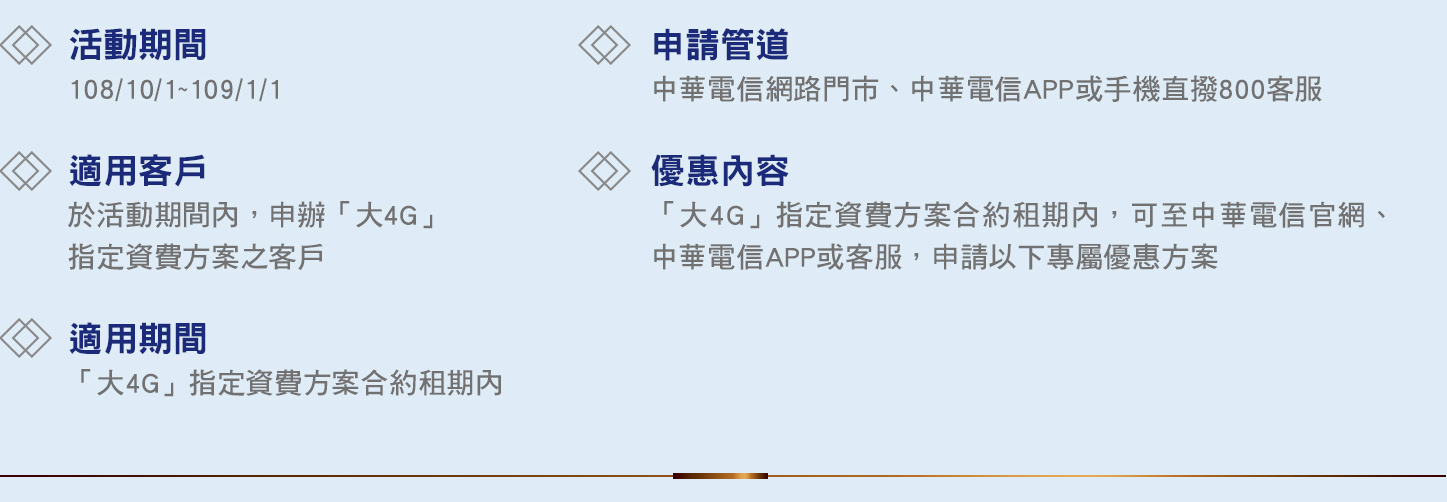
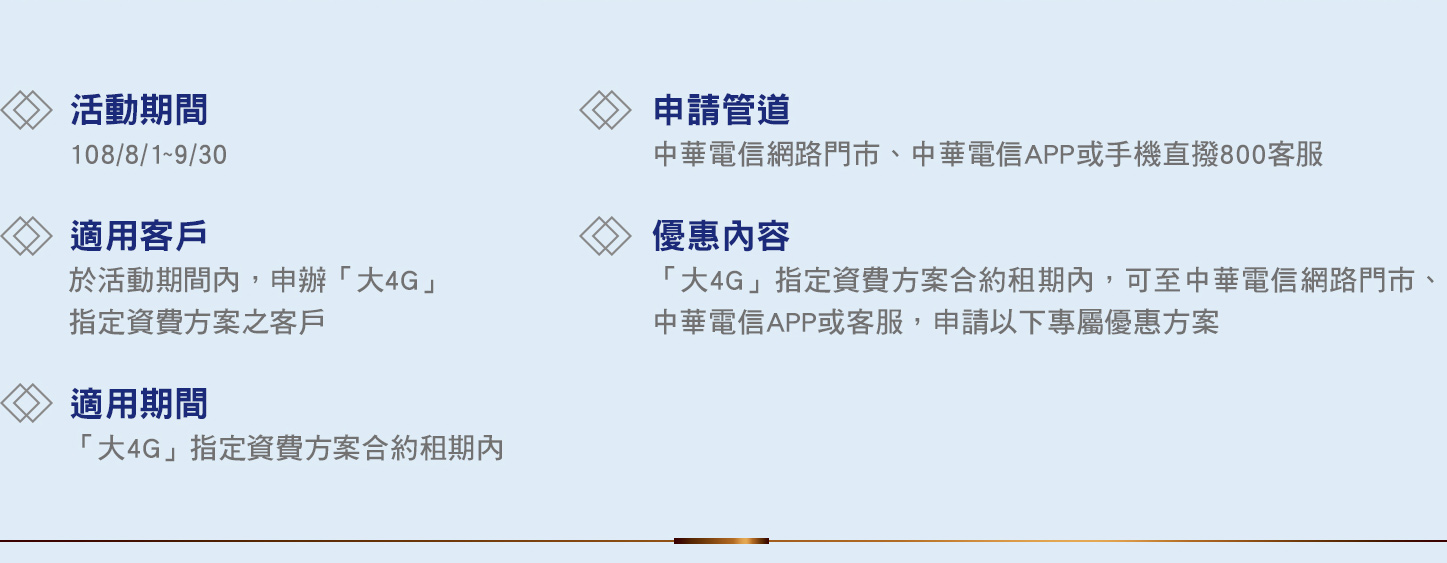
國際漫遊
修改選項
改大4g漫遊方案
改夏日方案內容

diff --git a/demo/international/roamingbig4g/index.html b/demo/international/roamingbig4g/index.html
@@ -280,52 +280,52 @@ height="0" width="0" style="display:none;visibility:hidden"></iframe></noscript>
     	<div class="reminder open04">
 			<ol>
 				<li>本活動期間內(108/10/1-109/1/1)申辦大4G方案月繳999元以上且租期為24個月以上者，於合約租期內可透過中華電信網路門市、APP或手機直撥800客服，申請「大4G日租吃到飽」及「大4G定量型」漫遊上網方案。</li>
-<li>「大4G日租吃到飽」漫遊上網方案依各區域之日租費用計費，上網無限瀏覽，生效期間每日(24小時)只要有產生上網用量，即收取當日日租費用，無法退費，完全沒有使用則不計費。可依需求一次申請多天，方案自生效時間起算至天數ｘ24小時後自動終止(以台灣時間計算，例如：客戶於4月1日15:00:00申請立即生效「大4G日租168吃到飽」方案ｘ5天，方案將在4月6日14:59:59終止)。方案生效期間於各方案適用國家特定優惠網之用量合併累計。
-<p>月繳999/1,199元方案客戶優惠價：</p>
-<ul>
-<li>大4G日租178吃到飽：適用中港澳、日韓、東南亞、美加、紐澳等熱門旅遊國家，178元/天</li>
-<li>大4G日租268吃到飽：適用中東、南亞、大洋洲特定國家，268元/天</li>
-<li>大4G日租468吃到飽：適用歐洲、非洲特定國家，468元/天</li>
-</ul>
-<p>月繳1,399/1,599/1,799/2,699元方案客戶優惠價：</p>
-<ul>
-<li>大4G日租168吃到飽：適用中港澳、日韓、東南亞、美加、紐澳等熱門旅遊國家，168元/天</li>
-<li>大4G日租258吃到飽：適用中東、南亞、大洋洲特定國家，258元/天</li>
-<li>大4G日租458吃到飽：適用歐洲、非洲特定國家，458元/天</li>
-</ul>
-</li>
-<li>為方便使用，吃到飽另提供2~100個月租期之「大旅行家」方案，生效期間出國至上述「大4G日租吃到飽」方案適用國家時，每日(台灣時間00:00~23:59)自動以「大4G日租吃到飽」漫遊上網方案之各區域吃到飽優惠價計費。本方案僅限透過手機直撥800申請。</li>
-<li>「大4G定量型」漫遊上網方案依適用國家，以固定費用提供固定內含漫遊上網量，用完則降速至128kbps，可繼續上網，不額外收費。方案生效期間贈送漫遊語音發話20分鐘免費，含撥打至當地、回台灣、至第三國等，以「分」為計算單位，不足1分鐘以1分鐘計算，贈送量用完後，以漫遊原價計價。方案啟動後即收取全額費用，無法退費，方案終止後，未用完之上網量及贈送量將歸零不得遞延。方案生效期間於各方案適用國家特定優惠網之用量合併累計。
-<p>月繳999/1,199元方案客戶優惠價：</p>
-<ul>
-<li>中港澳、日本、韓國、東南亞：方案費用558元，內含上網量5GB，有效期間為「7天」(連續168小時)</li>
-<li>美加、澳大利亞：方案費用958元，內含上網量10GB，有效期間為「15天」(連續360小時) </li>
-<li>中東、南亞特定國家：方案費用658元，內含上網量5GB，有效期間為「7天」(連續168小時) </li>
-<li>歐洲、非洲特定國家(含轉機地)：方案費用958元，內含上網量3GB，有效期間為「15天」(連續360小時) </li>
-</ul>
-<p>月繳1,399/1,599/1,799/2,699元方案客戶優惠價：</p>
-<ul>
-<li>中港澳、日本、韓國、東南亞：方案費用499元，內含上網量5GB，有效期間為「7天」(連續168小時)</li>
-<li>美加、澳大利亞：方案費用899元，內含上網量10GB，有效期間為「15天」(連續360小時) </li>
-<li>中東、南亞特定國家：方案費用599元，內含上網量5GB，有效期間為「7天」(連續168小時) </li>
-<li>歐洲、非洲特定國家(含轉機地)：方案費用899元，內含上網量3GB，有效期間為「15天」(連續360小時) </li>
-</ul>
-</li>
-<li>上述專屬方案生效期間僅限網站公告之特定國家使用(含定量型方案之漫遊語音發話贈送量)，方案於收到開通簡訊後生效，生效後建議重開機以確保系統為您自動註冊優惠網路。方案生效期間至不適用國家、船舶及航空漫遊，系統會自動暫停您的漫遊上網服務，以避免產生高額漫遊費用；方案結束前，若您再次回到適用國家後，系統會自動恢復漫遊上網服務。若您在方案不適用國家仍有漫遊上網需求，請撥免費*122#、依簡訊指示回傳對應代碼(國外須付費)或洽客服專線(中華行動電話直撥+886-928-000-086免付費客服專線)申請開啟漫遊上網服務即可，用量將依漫遊上網原價計收。客戶至本方案適用國家，若未申請本方案，傳送一張大小約1MB (1024KB)的照片，以漫遊上網原價計費可達約40元，實際費用仍以帳單金額為準。(各國業者之詳細漫遊費率請參考中華電信網路門市公告資訊)</li>
-<li>上述專屬方案不包括船舶及航空漫遊。登船/機前，建議客戶手動關閉行動數據、漫遊上網及手機同步等功能；由於郵/遊輪停靠之鄰近地區仍有可能接收到船舶行動網路溢散之訊號，登陸期間若可能於郵/遊輪附近活動時，建議客戶手機仍維持關閉行動數據、漫遊上網及手機同步等功能之狀態，以避免誤連船舶漫遊之行動網路，而產生高額漫遊費用。(船舶及航空漫遊係指各郵/遊輪及飛機航線上提供之行動上網服務)</li>
-<li>漫遊優惠原價依108年4月官網公告為準，實際價格將因經營成本及其他相關因素之變動隨時調整，詳細價格請見中華電信網路門市。</li>
-<li>本公司依國外業者傳送之通信資料，透過簡訊或e-mail提供方案生效、方案結束、上網用量(僅適用定量型方案)等相關通知，僅供參考，傳送過程可能因國外業者系統狀況、客戶終端無簡訊收送功能或關機等因素，而發生延遲、無法送達或超過簡訊發送時限而傳送失敗等情形，於漫遊期間實際產生之用量及費用，仍以帳單為準。</li>
-<li>國際漫遊上網服務計價方式依據上傳與下載之資料傳輸量計收，為避免產生額外之漫遊上網費用，「出國上飛機前」、「於國外上網服務使用後」或於「國外使用WiFi時」，請關閉行動數據、漫遊上網及手機同步等功能。</li>
-<li>「4G」為有開放4G漫遊服務之優惠國家 ，網路僅限4G用戶漫遊，當國外業者因4G網路涵蓋不良時，用戶仍可使用於3G或2G網路。</li>
-<li>國際漫遊上網實際使用及傳輸速率會因國外業者提供之網路系統、涵蓋、上網地點之地形、氣候、建築物遮蔽情形及所使用之終端設備、使用人數、手機APP應用軟體等因素而有所差異，上網品質無法完全與國內相同；且因各國外漫遊網對個人熱點分享開放策略不同，可否使用須視客戶註冊之漫遊網而定。若在國外發生無法使用時，建議重新開機，以利系統為您自動註冊適用網路，或以中華行動電話直撥+886-928-000-086免付費客服專線。</li>
-<li>為避免高額漫遊費用產生，客戶同意於上述專屬方案生效期間，於方案特定優惠國家內使用時，將無法使用該國非優惠網漫遊功能，並於方案終止後由系統主動停止客戶漫遊上網功能，如仍有上網需求，建議再申請一次適用之方案。</li>
-<li>上述專屬方案為單次租用型服務，且方案生效期間不可與適用國家相同之其他漫遊上網方案效期重疊。客戶申請之方案成功生效後，無法申請退費或調改其他天數之方案，僅能以退租處理，即使於方案啟動成功當天退租，仍將依該方案計費方式收費。</li>
-<li>傳送或接收MMS所產生之數據傳輸費，除了以上述專屬方案費率計收外，仍需收取國內之MMS通信費。</li>
-<li>客戶APN設定為emome時，且使用emome付費加值服務如圖鈴下載、付費網頁等，需同時收取國際漫遊數據傳輸費及國內數據通信費。</li>
-<li>客戶所使用的終端若無法收受簡訊，可透過中華電信APP或客服專線修改為e-mail通知。</li>
-<li>上述專屬方案係透過中華門號註冊當地網路時使用，若您另有申請環球卡服務，請依您的使用需求，將門號切換至適用的模式，以避免產生非預期之漫遊話費。</li>
-<li>因經營成本及其他相關因素之變動，本公司保留修改或終止上述專屬方案費率之權利，詳細費率及活動內容以本公司網站公告為主。</li>
-<li>為避免產生鉅額漫遊費用，手機、終端設備或SIM卡在國外遺失或被竊時，應立即通知本公司客服中心(中華行動電話直撥+886-928-000-086免付費客服專線)辦理掛失，若您未主動通知客服辦理停話，您仍需支付相關漫遊費用。</li>
+				<li>「大4G日租吃到飽」漫遊上網方案依各區域之日租費用計費，上網無限瀏覽，生效期間每日(24小時)只要有產生上網用量，即收取當日日租費用，無法退費，完全沒有使用則不計費。可依需求一次申請多天，方案自生效時間起算至天數ｘ24小時後自動終止(以台灣時間計算，例如：客戶於4月1日15:00:00申請立即生效「大4G日租168吃到飽」方案ｘ5天，方案將在4月6日14:59:59終止)。方案生效期間於各方案適用國家特定優惠網之用量合併累計。
+					<p>月繳999/1,199元方案客戶優惠價：</p>
+					<ul>
+						<li>大4G日租178吃到飽：適用中港澳、日韓、東南亞、美加、紐澳等熱門旅遊國家，178元/天</li>
+						<li>大4G日租268吃到飽：適用中東、南亞、大洋洲特定國家，268元/天</li>
+						<li>大4G日租468吃到飽：適用歐洲、非洲特定國家，468元/天</li>
+					</ul>
+					<p>月繳1,399/1,599/1,799/2,699元方案客戶優惠價：</p>
+					<ul>
+						<li>大4G日租168吃到飽：適用中港澳、日韓、東南亞、美加、紐澳等熱門旅遊國家，168元/天</li>
+						<li>大4G日租258吃到飽：適用中東、南亞、大洋洲特定國家，258元/天</li>
+						<li>大4G日租458吃到飽：適用歐洲、非洲特定國家，458元/天</li>
+					</ul>
+				</li>
+				<li>為方便使用，吃到飽另提供2~100個月租期之「大旅行家」方案，生效期間出國至上述「大4G日租吃到飽」方案適用國家時，每日(台灣時間00:00~23:59)自動以「大4G日租吃到飽」漫遊上網方案之各區域吃到飽優惠價計費。本方案僅限透過手機直撥800申請。</li>
+				<li>「大4G定量型」漫遊上網方案依適用國家，以固定費用提供固定內含漫遊上網量，用完則降速至128kbps，可繼續上網，不額外收費。方案生效期間贈送漫遊語音發話20分鐘免費，含撥打至當地、回台灣、至第三國等，以「分」為計算單位，不足1分鐘以1分鐘計算，贈送量用完後，以漫遊原價計價。方案啟動後即收取全額費用，無法退費，方案終止後，未用完之上網量及贈送量將歸零不得遞延。方案生效期間於各方案適用國家特定優惠網之用量合併累計。
+					<p>月繳999/1,199元方案客戶優惠價：</p>
+					<ul>
+						<li>中港澳、日本、韓國、東南亞：方案費用558元，內含上網量5GB，有效期間為「7天」(連續168小時)</li>
+						<li>美加、澳大利亞：方案費用958元，內含上網量10GB，有效期間為「15天」(連續360小時) </li>
+						<li>中東、南亞特定國家：方案費用658元，內含上網量5GB，有效期間為「7天」(連續168小時) </li>
+						<li>歐洲、非洲特定國家(含轉機地)：方案費用958元，內含上網量3GB，有效期間為「15天」(連續360小時) </li>
+					</ul>
+					<p>月繳1,399/1,599/1,799/2,699元方案客戶優惠價：</p>
+					<ul>
+						<li>中港澳、日本、韓國、東南亞：方案費用499元，內含上網量5GB，有效期間為「7天」(連續168小時)</li>
+						<li>美加、澳大利亞：方案費用899元，內含上網量10GB，有效期間為「15天」(連續360小時) </li>
+						<li>中東、南亞特定國家：方案費用599元，內含上網量5GB，有效期間為「7天」(連續168小時) </li>
+						<li>歐洲、非洲特定國家(含轉機地)：方案費用899元，內含上網量3GB，有效期間為「15天」(連續360小時) </li>
+					</ul>
+				</li>
+				<li>上述專屬方案生效期間僅限網站公告之特定國家使用(含定量型方案之漫遊語音發話贈送量)，方案於收到開通簡訊後生效，生效後建議重開機以確保系統為您自動註冊優惠網路。方案生效期間至不適用國家、船舶及航空漫遊，系統會自動暫停您的漫遊上網服務，以避免產生高額漫遊費用；方案結束前，若您再次回到適用國家後，系統會自動恢復漫遊上網服務。若您在方案不適用國家仍有漫遊上網需求，請撥免費*122#、依簡訊指示回傳對應代碼(國外須付費)或洽客服專線(中華行動電話直撥+886-928-000-086免付費客服專線)申請開啟漫遊上網服務即可，用量將依漫遊上網原價計收。客戶至本方案適用國家，若未申請本方案，傳送一張大小約1MB (1024KB)的照片，以漫遊上網原價計費可達約40元，實際費用仍以帳單金額為準。(各國業者之詳細漫遊費率請參考中華電信網路門市公告資訊)</li>
+				<li>上述專屬方案不包括船舶及航空漫遊。登船/機前，建議客戶手動關閉行動數據、漫遊上網及手機同步等功能；由於郵/遊輪停靠之鄰近地區仍有可能接收到船舶行動網路溢散之訊號，登陸期間若可能於郵/遊輪附近活動時，建議客戶手機仍維持關閉行動數據、漫遊上網及手機同步等功能之狀態，以避免誤連船舶漫遊之行動網路，而產生高額漫遊費用。(船舶及航空漫遊係指各郵/遊輪及飛機航線上提供之行動上網服務)</li>
+				<li>漫遊優惠原價依108年4月官網公告為準，實際價格將因經營成本及其他相關因素之變動隨時調整，詳細價格請見中華電信網路門市。</li>
+				<li>本公司依國外業者傳送之通信資料，透過簡訊或e-mail提供方案生效、方案結束、上網用量(僅適用定量型方案)等相關通知，僅供參考，傳送過程可能因國外業者系統狀況、客戶終端無簡訊收送功能或關機等因素，而發生延遲、無法送達或超過簡訊發送時限而傳送失敗等情形，於漫遊期間實際產生之用量及費用，仍以帳單為準。</li>
+				<li>國際漫遊上網服務計價方式依據上傳與下載之資料傳輸量計收，為避免產生額外之漫遊上網費用，「出國上飛機前」、「於國外上網服務使用後」或於「國外使用WiFi時」，請關閉行動數據、漫遊上網及手機同步等功能。</li>
+				<li>「4G」為有開放4G漫遊服務之優惠國家 ，網路僅限4G用戶漫遊，當國外業者因4G網路涵蓋不良時，用戶仍可使用於3G或2G網路。</li>
+				<li>國際漫遊上網實際使用及傳輸速率會因國外業者提供之網路系統、涵蓋、上網地點之地形、氣候、建築物遮蔽情形及所使用之終端設備、使用人數、手機APP應用軟體等因素而有所差異，上網品質無法完全與國內相同；且因各國外漫遊網對個人熱點分享開放策略不同，可否使用須視客戶註冊之漫遊網而定。若在國外發生無法使用時，建議重新開機，以利系統為您自動註冊適用網路，或以中華行動電話直撥+886-928-000-086免付費客服專線。</li>
+				<li>為避免高額漫遊費用產生，客戶同意於上述專屬方案生效期間，於方案特定優惠國家內使用時，將無法使用該國非優惠網漫遊功能，並於方案終止後由系統主動停止客戶漫遊上網功能，如仍有上網需求，建議再申請一次適用之方案。</li>
+				<li>上述專屬方案為單次租用型服務，且方案生效期間不可與適用國家相同之其他漫遊上網方案效期重疊。客戶申請之方案成功生效後，無法申請退費或調改其他天數之方案，僅能以退租處理，即使於方案啟動成功當天退租，仍將依該方案計費方式收費。</li>
+				<li>傳送或接收MMS所產生之數據傳輸費，除了以上述專屬方案費率計收外，仍需收取國內之MMS通信費。</li>
+				<li>客戶APN設定為emome時，且使用emome付費加值服務如圖鈴下載、付費網頁等，需同時收取國際漫遊數據傳輸費及國內數據通信費。</li>
+				<li>客戶所使用的終端若無法收受簡訊，可透過中華電信APP或客服專線修改為e-mail通知。</li>
+				<li>上述專屬方案係透過中華門號註冊當地網路時使用，若您另有申請環球卡服務，請依您的使用需求，將門號切換至適用的模式，以避免產生非預期之漫遊話費。</li>
+				<li>因經營成本及其他相關因素之變動，本公司保留修改或終止上述專屬方案費率之權利，詳細費率及活動內容以本公司網站公告為主。</li>
+				<li>為避免產生鉅額漫遊費用，手機、終端設備或SIM卡在國外遺失或被竊時，應立即通知本公司客服中心(中華行動電話直撥+886-928-000-086免付費客服專線)辦理掛失，若您未主動通知客服辦理停話，您仍需支付相關漫遊費用。</li>
 			</ol>
 		</div>
 		<div class="lightbox" id="fl1">

diff --git a/demo/international/roaming/index.html b/demo/international/roaming/index.html
@@ -4556,7 +4556,6 @@
                         <a href='#'>
                             <img src="img/icon_001.png" />其他方案</a>
                         <ul>
-                        	<li><a href="holidaygo.html" onclick="gtag('event', 'menu bar_summer flash', {'event_category': 'Menu', 'event_label': 'Menu'});">夏日搶先GO方案</a></li>
                         	<li><a href="https://www.cht.com.tw/home/campaign/roamingbig4g/index.html" onclick="gtag('event', 'menu bar_BIG4G', {'event_category': 'Menu', 'event_label': 'Menu'});">大4G方案</a></li>
                             <li>
                                 <a href="https://www.cht.com.tw/home/campaign/roamingforstu/index.html" onclick="gtag('event', 'menu bar_student', {'event_category': 'Menu', 'event_label': 'Menu'});">學生方案</a>

diff --git a/demo/international/roaming/holidaygo.html b/demo/international/roaming/holidaygo.html
@@ -8,7 +8,7 @@
 	'https://www.googletagmanager.com/gtm.js?id='+i+dl;f.parentNode.insertBefore(j,f);
 	})(window,document,'script','dataLayer','GTM-596VXW');</script>
 	<!-- End Google Tag Manager -->
-	
+	<meta http-equiv="refresh" content="0;url=./index.html" />
 	<meta charset="utf-8">
     <meta name="viewport" content="width=device-width, initial-scale=1">
     <meta name="description" content="限時超大折扣!暑假出國必備!日本、韓國、香港、澳門、東南亞、中國、杜拜七日吃到飽688元起!還有美國、加拿大、歐洲各國特惠價!出國選擇中華電信手機漫遊上網最方便，免換卡、免租機最輕鬆原機原號隨辦即用">
